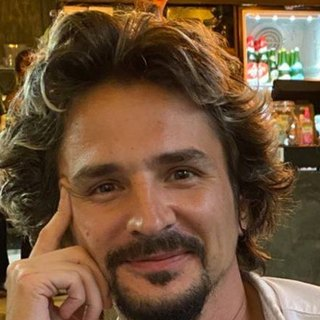
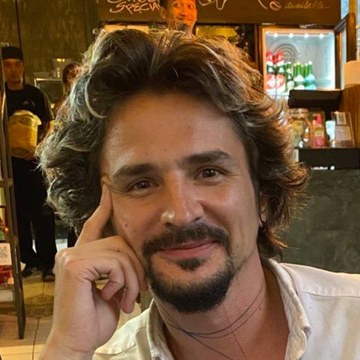
Подсказки на ключевых точках, красная цель, новое фото
Claude-Session: https://claude.ai/code/session_01XaU7VVSiTeqiHUhXFfeUwB

diff --git a/index.html b/index.html
@@ -7,7 +7,7 @@
 <title>BudiValen покоряет планету</title>
 <link rel="preconnect" href="https://fonts.googleapis.com">
 <link rel="preconnect" href="https://fonts.gstatic.com" crossorigin>
-<link rel="stylesheet" href="https://fonts.googleapis.com/css2?family=Unbounded:wght@500;700&family=IBM+Plex+Sans:wght@400;500;600&family=JetBrains+Mono:wght@400;600&display=swap">
+<link rel="stylesheet" href="https://fonts.googleapis.com/css2?family=Unbounded:wght@500;700&family=Russo+One&family=IBM+Plex+Sans:wght@400;500;600&family=JetBrains+Mono:wght@400;600&display=swap">
 <style>
 /* Layout: personal ledger — progress rail on top, main column of charts/history, side "cash desk" with the session form. Single dark look by choice. */
 :root{
@@ -21,6 +21,7 @@
   --brass-soft:rgba(214,165,74,.14);
   --up:#43c08a;
   --down:#e8575c;
+  --red:#ff4545;
   --f-display:"Unbounded","IBM Plex Sans",system-ui,sans-serif;
   --f-body:"IBM Plex Sans",system-ui,-apple-system,"Segoe UI",sans-serif;
   --f-num:"JetBrains Mono",ui-monospace,"SFMono-Regular",Menlo,monospace;
@@ -41,9 +42,10 @@ button{cursor:pointer}
 /* header */
 .top{display:flex;align-items:center;justify-content:space-between;gap:12px;flex-wrap:wrap;margin-bottom:18px}
 .brand{display:flex;align-items:center;gap:12px}
-.avatar{width:72px;height:72px;border-radius:50%;flex:none;object-fit:cover;border:2px solid var(--brass);box-shadow:0 0 0 4px var(--brass-soft)}
+.avatar{width:84px;height:84px;border-radius:50%;flex:none;object-fit:cover;border:2px solid var(--brass);box-shadow:0 0 0 4px var(--brass-soft)}
 .who{display:grid;gap:2px;min-width:0}
-.who .name{font-family:var(--f-display);font-size:13px;font-weight:500;color:var(--muted);letter-spacing:.02em}
+.who .name{font-family:var(--f-display);font-size:13px;font-weight:500;color:var(--brass);letter-spacing:.04em}
+.who h1{font-family:"Russo One",var(--f-display);font-weight:400;color:var(--red);letter-spacing:.02em}
 .chip{width:38px;height:38px;border-radius:50%;flex:none;background:
   repeating-conic-gradient(var(--brass) 0 22.5deg,var(--surface-2) 22.5deg 45deg);display:grid;place-items:center}
 .chip::after{content:"";width:24px;height:24px;border-radius:50%;background:var(--bg);border:2px solid var(--brass)}
@@ -52,16 +54,20 @@ h1{font-size:clamp(20px,3.4vw,28px);letter-spacing:.01em;line-height:1.2}
 .badge.demo{border-color:var(--brass);color:var(--brass)}
 
 /* progress rail */
-.rail{background:var(--surface);border:1px solid var(--line);border-radius:var(--r);padding:16px 18px;margin-bottom:18px}
+.rail{position:relative;background:var(--surface);border:1px solid var(--line);border-radius:var(--r);padding:16px 18px;margin-bottom:18px}
 .rail-head{display:flex;justify-content:space-between;align-items:baseline;gap:12px;flex-wrap:wrap}
 .rail-head .pct{font-family:var(--f-num);color:var(--brass);font-weight:600;font-size:18px}
-.track{position:relative;height:10px;border-radius:999px;background:var(--surface-2);margin:22px 0 8px}
+.track{position:relative;height:10px;border-radius:999px;background:var(--surface-2);margin:26px 0 10px}
 .fill{position:absolute;inset:0 auto 0 0;border-radius:999px;background:linear-gradient(90deg,#8a6a2c,var(--brass));transition:width .6s}
 .mark{position:absolute;top:-6px;width:2px;height:22px;background:var(--line)}
 .marks{position:relative;height:18px;font-family:var(--f-num);font-size:11px;color:var(--muted)}
 .marks span{position:absolute;transform:translateX(-50%);white-space:nowrap}
 .marks span:first-child{transform:none}.marks span:last-child{transform:translateX(-100%)}
-.ms-dot{position:absolute;top:50%;width:12px;height:12px;margin:-6px 0 0 -6px;transform:rotate(45deg);background:var(--surface);border:2px solid var(--muted);z-index:1}
+.ms-dot{position:absolute;top:50%;width:16px;height:16px;margin:-8px 0 0 -8px;transform:rotate(45deg);background:var(--surface);border:2px solid var(--muted);z-index:1;padding:0;cursor:pointer}
+.ms-dot:hover,.ms-dot:focus-visible{transform:rotate(45deg) scale(1.25)}
+.ms-tip{position:absolute;bottom:calc(100% + 14px);transform:translateX(-50%);width:max-content;max-width:min(260px,80vw);background:var(--surface-2);border:1px solid var(--brass);border-radius:8px;padding:8px 12px;font-size:13px;line-height:1.35;z-index:5;pointer-events:none;box-shadow:0 8px 24px rgba(0,0,0,.4)}
+.ms-tip b{font-family:var(--f-num);color:var(--brass)}
+.ms-tip .t{display:block;font-size:11px;color:var(--muted);margin-top:3px}
 .ms-dot.done{background:var(--brass);border-color:var(--brass)}
 .ms-dot.next{border-color:var(--brass);box-shadow:0 0 0 4px var(--brass-soft)}
 .ms-list{display:flex;gap:8px;flex-wrap:wrap;margin-top:14px}
@@ -71,7 +77,7 @@ h1{font-size:clamp(20px,3.4vw,28px);letter-spacing:.01em;line-height:1.2}
 .ms.done{border-color:rgba(214,165,74,.45);background:var(--brass-soft)}
 .ms.done .t{color:var(--brass)}
 .ms.next{border-color:var(--brass)}
-.ms-edit{display:grid;grid-template-columns:110px minmax(0,1fr) auto;gap:6px;align-items:center}
+.ms-edit{display:grid;grid-template-columns:96px minmax(0,1fr) auto;gap:6px;align-items:center}
 .rail-foot{display:flex;gap:6px 24px;flex-wrap:wrap;margin-top:12px;font-size:13px;color:var(--muted)}
 .rail-foot b{color:var(--fg);font-family:var(--f-num);font-weight:600}
 
@@ -168,7 +174,7 @@ body:not(.admin) .admin-only{display:none!important}
 <div class="wrap">
   <header class="top">
     <div class="brand">
-      <img class="avatar" src="avatar.jpg" alt="BudiValen" width="72" height="72">
+      <img class="avatar" src="avatar.jpg" alt="BudiValen" width="84" height="84">
       <div class="who"><span class="name">BudiValen покоряет планету</span><h1 id="subtitle">Цель: от $100 до $1 000 000</h1></div>
     </div>
     <span class="badge" id="modeBadge">Загрузка…</span>
@@ -181,7 +187,7 @@ body:not(.admin) .admin-only{display:none!important}
     </div>
     <div class="track" id="track"><div class="fill" id="fill" style="width:0"></div></div>
     <div class="marks" id="marks"></div>
-    <div class="ms-list" id="msList"></div>
+    <div class="ms-tip" id="msTip" hidden></div>
     <div class="rail-foot">
       <span>Банкролл <b id="rfBr">—</b></span>
       <span>Осталось <b id="rfLeft">—</b></span>
@@ -342,7 +348,7 @@ body:not(.admin) .admin-only{display:none!important}
 (() => {
   const ROOMS = 6;
   const DEFAULT_SETTINGS = { rooms:["GGPoker","PokerStars","ACR","CoinPoker","iPoker","Room 6"], startBR:100, goal:1000000, startDate:"",
-    milestones:[{br:500,label:"АБИ $1"},{br:2000,label:"АБИ $3"},{br:10000,label:"АБИ $10"},{br:50000,label:"АБИ $30"},{br:250000,label:"АБИ $100"}] };
+    milestones:[{br:2000,label:"Доезд на 2 000$ — переход на АБИ $8"},{br:14700,label:"Доезд на 14 700$ — переход на АБИ $30"},{br:75000,label:"Следующая вершина при БР 50–100k — пока не покорена"}] };
   let settings = structuredClone(DEFAULT_SETTINGS);
   let sessions = [];
   let store = null;
@@ -495,13 +501,30 @@ body:not(.admin) .admin-only{display:none!important}
     });
     const ms=(settings.milestones||[]).filter(m=>+m.br>0).sort((a,b)=>a.br-b.br);
     const nextI=ms.findIndex(m=>c.br<m.br);
-    ms.forEach((m,i)=>{ const x=Math.max(0,Math.min(100,(Math.log10(m.br)-lo)/(hi-lo)*100)); const d=document.createElement("div"); d.className="ms-dot mark-ms "+(c.br>=m.br?"done":i===nextI?"next":""); d.style.left=x+"%"; d.title=short(m.br)+" — "+m.label; $("track").appendChild(d); });
-    $("msList").innerHTML=ms.map((m,i)=>{ const st=c.br>=m.br?"done":i===nextI?"next":""; const t=st==="done"?"пройдено":st==="next"?"осталось "+money(m.br-c.br):"впереди"; return `<div class="ms ${st}"><span><b>${short(m.br)}</b> · ${esc(m.label)}</span><span class="t">${t}</span></div>`; }).join("");
+    ms.forEach((m,i)=>{
+      const x=Math.max(0,Math.min(100,(Math.log10(m.br)-lo)/(hi-lo)*100));
+      const st=c.br>=m.br?"done":i===nextI?"next":"";
+      const d=document.createElement("button"); d.type="button"; d.className="ms-dot mark-ms "+st; d.style.left=x+"%";
+      d.setAttribute("aria-label",money(m.br)+": "+m.label);
+      d.dataset.tip=`<b>${money(m.br)}</b> · ${esc(m.label)}<span class="t">${st==="done"?"пройдено ✓":"осталось "+money(m.br-c.br)}</span>`;
+      $("track").appendChild(d);
+    });
     $("rfBr").textContent=money(c.br);
     $("rfLeft").textContent=money(Math.max(0,(settings.goal||1e6)-c.br));
     $("rfX").textContent="×"+(c.br/(c.start||100)).toFixed(c.br/(c.start||100)<10?2:0).replace(".",",");
     $("rfMtt").textContent = c.perMtt>0 ? "~"+nf.format(Math.round(Math.max(0,(settings.goal||1e6)-c.br)/c.perMtt)) : "—";
   }
+
+  function showTip(d){ const tip=$("msTip"), rail=d.closest(".rail"); tip.innerHTML=d.dataset.tip; tip.hidden=false;
+    const r=d.getBoundingClientRect(), rr=rail.getBoundingClientRect(); let x=r.left+r.width/2-rr.left; const w=tip.offsetWidth; x=Math.max(w/2+8,Math.min(rr.width-w/2-8,x));
+    tip.style.left=x+"px"; tip.style.bottom=(rr.bottom-r.top+10)+"px"; }
+  const hideTip=()=>{ $("msTip").hidden=true; };
+  $("track").addEventListener("pointerover",e=>{ const d=e.target.closest(".ms-dot"); if(d) showTip(d); });
+  $("track").addEventListener("pointerout",e=>{ if(e.target.closest(".ms-dot")) hideTip(); });
+  $("track").addEventListener("focusin",e=>{ const d=e.target.closest(".ms-dot"); if(d) showTip(d); });
+  $("track").addEventListener("focusout",hideTip);
+  $("track").addEventListener("click",e=>{ const d=e.target.closest(".ms-dot"); if(d){ showTip(d); e.stopPropagation(); } });
+  document.addEventListener("click",hideTip);
 
   /* ---------- render: tiles ---------- */
   function renderTiles(c){
@@ -651,7 +674,7 @@ body:not(.admin) .admin-only{display:none!important}
   }
   let msDraft=[];
   function drawMs(){
-    $("msFields").innerHTML=msDraft.map((m,i)=>`<div class="ms-edit"><div class="field"><label for="msB${i}">БР, $</label><input id="msB${i}" inputmode="decimal" value="${m.br||""}"></div><div class="field"><label for="msL${i}">Что происходит</label><input id="msL${i}" value="${esc(m.label||"")}" placeholder="переход на АБИ $5"></div><button type="button" class="rowbtn" data-msdel="${i}" aria-label="Убрать точку" style="margin-top:18px">×</button></div>`).join("");
+    $("msFields").innerHTML=msDraft.map((m,i)=>`<div class="ms-edit"><div class="field"><label for="msB${i}">БР, $</label><input id="msB${i}" inputmode="decimal" value="${m.br||""}"></div><div class="field"><label for="msL${i}">Что происходит</label><input id="msL${i}" value="${esc(m.label||"")}" placeholder="Доезд на 2 000$ — переход на АБИ $8"></div><button type="button" class="rowbtn" data-msdel="${i}" aria-label="Убрать точку" style="margin-top:18px">×</button></div>`).join("");
   }
   function syncMs(){ msDraft=msDraft.map((m,i)=>({br:parse($("msB"+i)?.value),label:($("msL"+i)?.value||"").trim()})); }
   $("msAdd").onclick=()=>{ syncMs(); msDraft.push({br:"",label:""}); drawMs(); };
